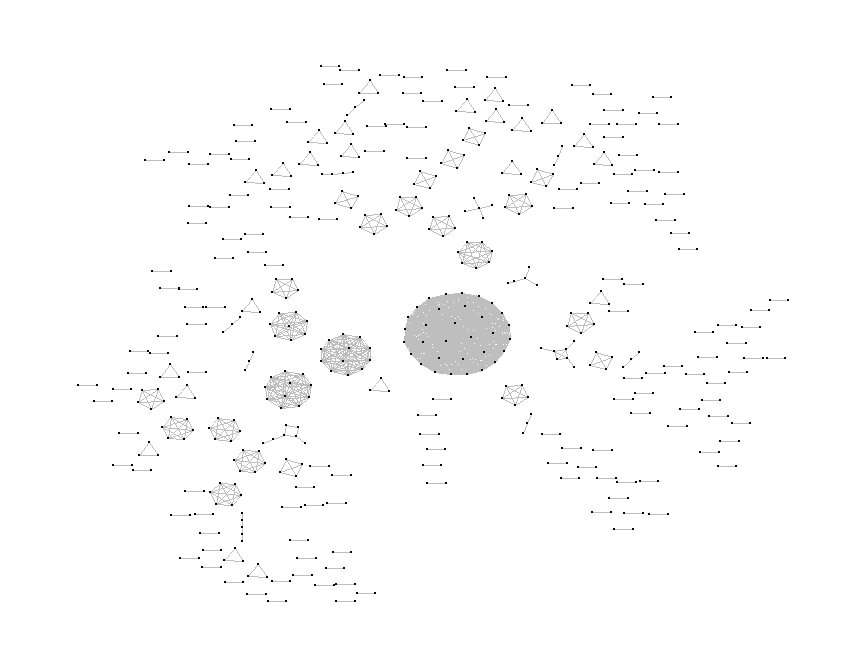
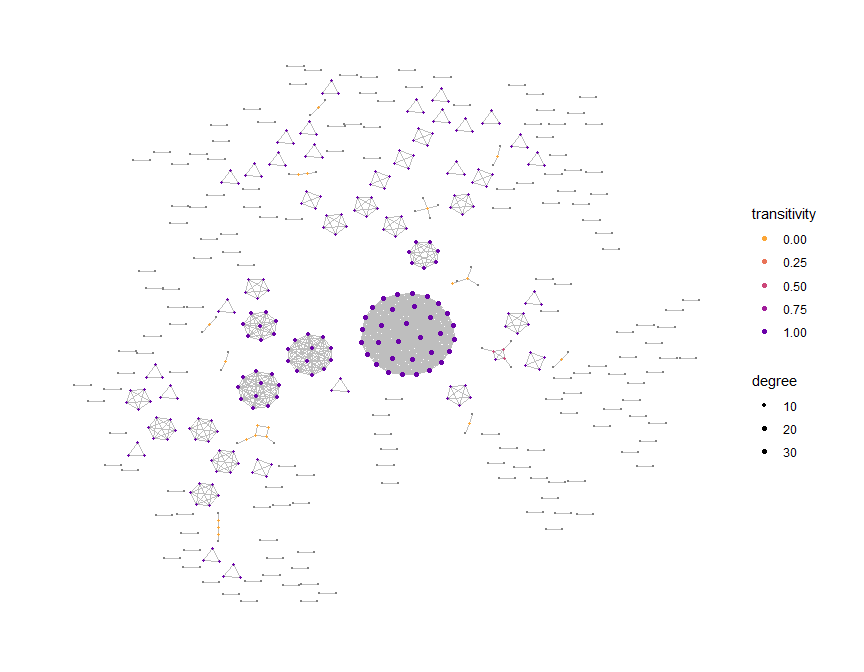
small changes to examples in section for customized visualization

diff --git a/README.md b/README.md
@@ -568,6 +568,7 @@ sizes in `ggraph`.
 output <- buildRepSeqNetwork(tcr_data, "cdr3",
                              node_stats = TRUE,
                              color_nodes_by = "transitivity",
+                             color_scheme = "plasma-1",
                              size_nodes_by = "degree",
                              node_size_limits = c(0.5, 1.5))
 #> Input data contains 4206 rows.
@@ -591,7 +592,8 @@ variable to color the nodes, as follows:
 ``` r
 output <- buildRepSeqNetwork(tcr_data, "cdr3",
                              node_stats = TRUE,
-                             color_nodes_by = c("transitivity", "eigen_centrality"),
+                             stats_to_include = "all",
+                             color_nodes_by = c("transitivity", "closeness"),
                              color_scheme = c("plasma-1", "default"),
                              size_nodes_by = "degree",
                              node_size_limits = c(0.5, 1.5))
@@ -599,6 +601,7 @@ output <- buildRepSeqNetwork(tcr_data, "cdr3",
 #> Removing sequences with length less than 3... Done. 4206 rows remaining.
 #> Computing network edges based on a max hamming distance of 1... Done.
 #> 588 nodes in the network (after removing nodes with degree zero).
+#> Computing cluster membership within the network... Done.
 #> Computing node-level network statistics... Done.
 #> Generating graph plot with nodes colored by transitivity...
 ```
@@ -606,7 +609,7 @@ output <- buildRepSeqNetwork(tcr_data, "cdr3",
 <img src="man/figures/README-unnamed-chunk-17-1.png" width="100%" style="display: block; margin: auto;" />
 
     #>  Done.
-    #> Generating graph plot with nodes colored by eigen_centrality...
+    #> Generating graph plot with nodes colored by closeness...
 
 <img src="man/figures/README-unnamed-chunk-17-2.png" width="100%" style="display: block; margin: auto;" />
 
@@ -623,13 +626,19 @@ The plot title and subtitle can be specified using the `plot_title` and
 
 ``` r
 output <- buildRepSeqNetwork(tcr_data, "cdr3",
+                             node_stats = TRUE,
+                             color_nodes_by = "transitivity",
+                             color_scheme = "plasma-1",
+                             size_nodes_by = "degree",
+                             node_size_limits = c(0.5, 1.5),
                              plot_title = NULL,
                              plot_subtitle = NULL)
 #> Input data contains 4206 rows.
 #> Removing sequences with length less than 3... Done. 4206 rows remaining.
 #> Computing network edges based on a max hamming distance of 1... Done.
 #> 588 nodes in the network (after removing nodes with degree zero).
-#> Generating graph plot...
+#> Computing node-level network statistics... Done.
+#> Generating graph plot with nodes colored by transitivity...
 ```
 
 <img src="man/figures/README-unnamed-chunk-18-1.png" width="100%" style="display: block; margin: auto;" />
